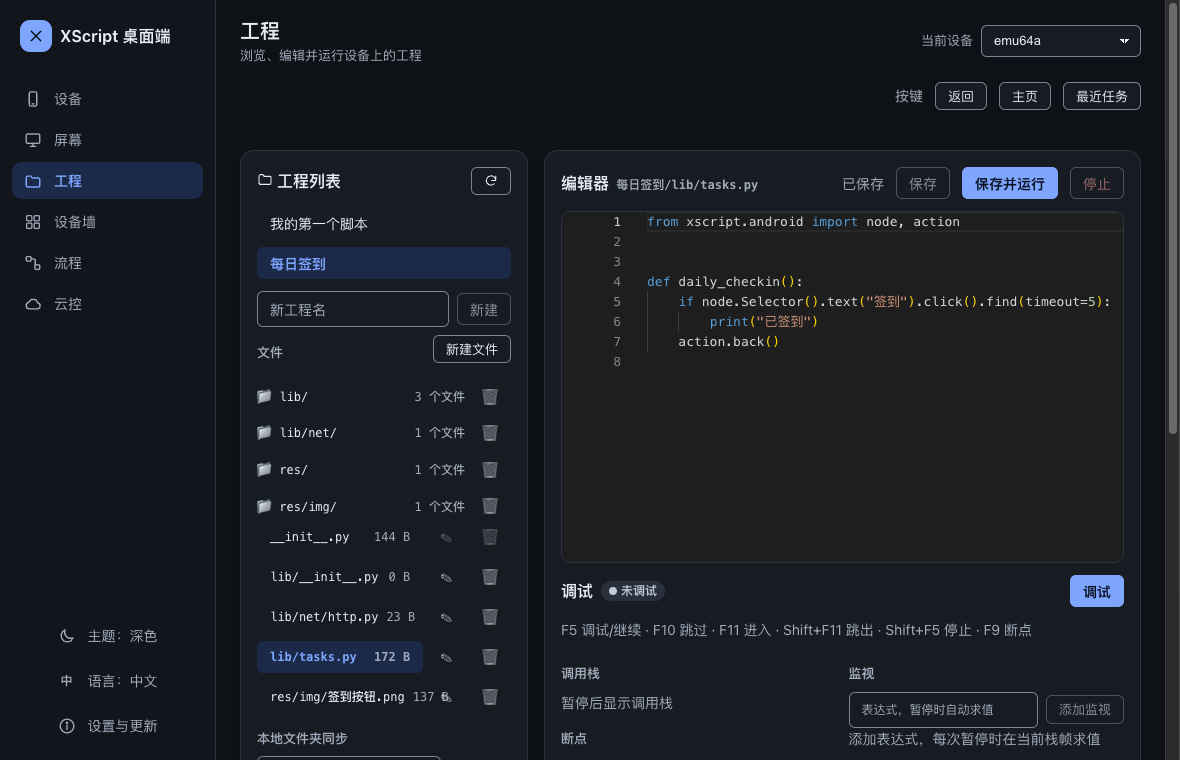
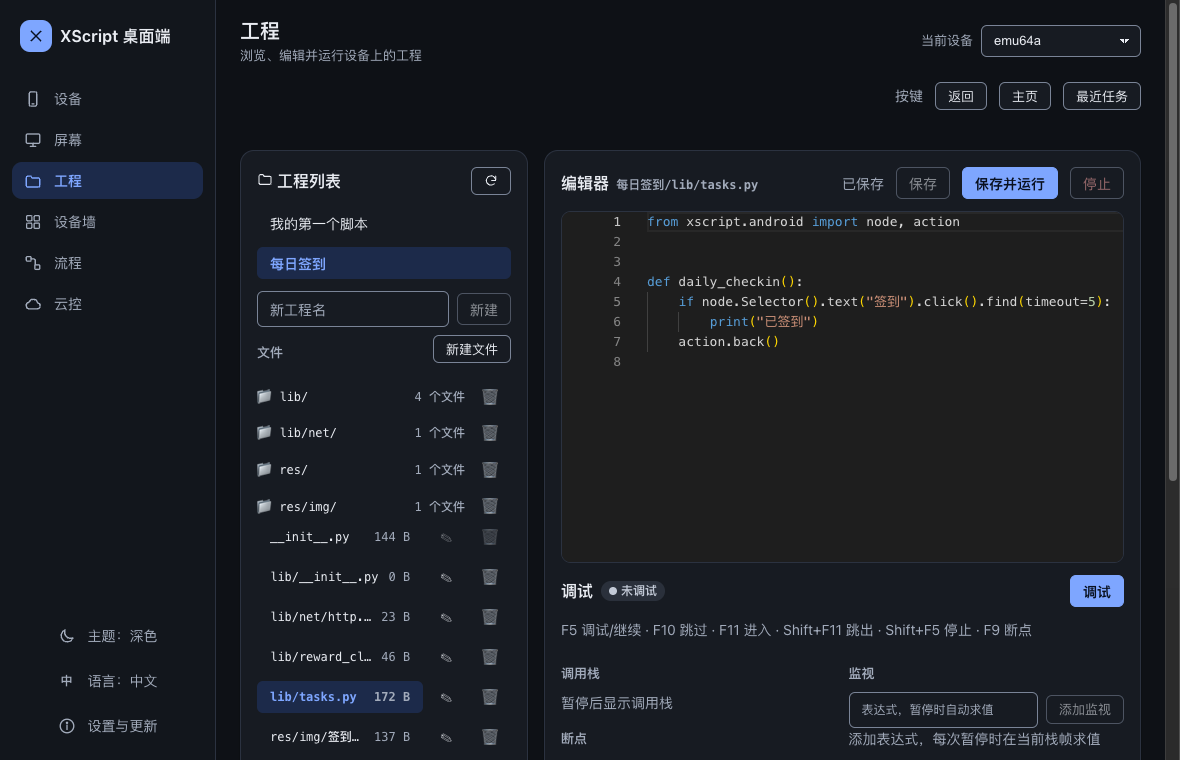
fix(desktop): ellipsize long project and file names in the Projects lists

Changed region(s): [[0.2136, 0.7868, 0.3661, 0.9987], [0.9763, 0.575, 1.0, 0.6355], [0.3966, 0.9382, 0.4271, 0.9987]]

diff --git a/desktop/frontend/src/components/ProjectsPage.tsx b/desktop/frontend/src/components/ProjectsPage.tsx
@@ -368,7 +368,7 @@ export function ProjectsPage({ pollMs = LOG_POLL_MS, onDirtyChange }: { pollMs?:
             {(projects ?? []).map((p) => (
               <li key={p.name}>
                 <Button variant="bare" className={"list-btn" + (p.name === project ? " active" : "")} aria-current={p.name === project ? "true" : undefined} onClick={() => void openProject(p.name)}>
-                  {p.name}
+                  <span className="list-name" title={p.name}>{p.name}</span>
                   {running && runningProject === p.name && <Badge tone="ok">{t.projects.running}</Badge>}
                 </Button>
               </li>
@@ -427,7 +427,7 @@ export function ProjectsPage({ pollMs = LOG_POLL_MS, onDirtyChange }: { pollMs?:
                   {folders.map(([d, n]) => (
                     <li key={d} className="file-row">
                       <span className="ui-btn list-btn mono folder-label">
-                        📁 {d}/
+                        <span className="list-name" title={`${d}/`}>📁 {d}/</span>
                         <span className="muted">{t.files.fileCount(n)}</span>
                       </span>
                       <Button variant="ghost" size="sm" className="text-danger-fg hover:bg-danger-bg"
@@ -448,7 +448,7 @@ export function ProjectsPage({ pollMs = LOG_POLL_MS, onDirtyChange }: { pollMs?:
                   return (
                     <li key={f.path} className="file-row">
                       <Button variant="bare" className={"list-btn mono" + (file?.path === f.path ? " active" : "")} onClick={() => void openFile(f.path)}>
-                        {f.path}
+                        <span className="list-name" title={f.path}>{f.path}</span>
                         <span className="muted">{f.size} B</span>
                       </Button>
                       <Button variant="ghost" size="sm"

diff --git a/desktop/frontend/src/styles/components.css b/desktop/frontend/src/styles/components.css
@@ -192,6 +192,9 @@ pre.logs .err { color: var(--danger-fg); }
 .lang-mark { display: inline-grid; place-items: center; width: 18px; font-size: var(--fs-xs); font-weight: 700; }
 /* A folder row's name: laid out like the file buttons beside it, but not clickable. */
 .list-btn.folder-label, .list-btn.folder-label:hover:not(:disabled) { cursor: default; background: transparent; }
+.list-btn { gap: var(--sp-2, 8px); min-width: 0; }
+.list-btn .list-name { flex: 1 1 auto; min-width: 0; overflow: hidden; text-overflow: ellipsis; white-space: nowrap; }
+.list-btn > :not(.list-name) { flex: 0 0 auto; }
 .file-row { display: flex; gap: var(--sp-1, 4px); align-items: center; } .file-row .list-btn { flex: 1; min-width: 0; }
 
 /* debugger: the decorations Monaco draws are styled in overrides.css (unlayered, like Monaco's own CSS) */

diff --git a/desktop/frontend/tests/projects.test.tsx b/desktop/frontend/tests/projects.test.tsx
@@ -40,6 +40,17 @@ describe("ProjectsPage", () => {
     expect((await api.readFile(id, "demo", "__init__.py")).content).toBe("print(1)\n");
   });
 
+  it("truncates long names with an ellipsis span and a full-name tooltip", async () => {
+    await setup();
+    const proj = await screen.findByRole("button", { name: /^demo/ });
+    expect(proj.querySelector(".list-name")?.getAttribute("title")).toBe("demo");
+    fireEvent.click(proj);
+    const file = await screen.findByRole("button", { name: /^__init__\.py/ });
+    const name = file.querySelector(".list-name");
+    expect(name?.getAttribute("title")).toBe("__init__.py");
+    expect(name?.nextElementSibling?.textContent).toMatch(/ B$/);
+  });
+
   it("creates a project", async () => {
     await setup();
     await screen.findByRole("button", { name: /^demo/ });

diff --git a/desktop/frontend/tests/fileops-i18n.test.tsx b/desktop/frontend/tests/fileops-i18n.test.tsx
@@ -85,8 +85,8 @@ describe("file new / rename / delete", () => {
       await screen.findByRole("button", { name: new RegExp("^" + path.replace(/[/.]/g, "\\$&")) });
     }
     const folders = screen.getByRole("list", { name: "文件夹" });
-    expect(within(folders).getByText(/pkg\/$/).textContent).toContain("2 个文件");
-    expect(within(folders).getByText(/pkg\/sub\/$/).textContent).toContain("1 个文件");
+    expect(within(folders).getByText(/pkg\/$/).parentElement!.textContent).toContain("2 个文件");
+    expect(within(folders).getByText(/pkg\/sub\/$/).parentElement!.textContent).toContain("1 个文件");
 
     fireEvent.click(screen.getByRole("button", { name: /^pkg\/sub\/b\.py/ }));
     await screen.findByText(/demo\/pkg\/sub\/b\.py/);

diff --git a/docs/使用手册.md b/docs/使用手册.md
@@ -530,7 +530,7 @@ yolo export model=runs/detect/train/weights/best.pt format=onnx imgsz=640
 
 ## 桌面端：安装、更新与诊断包
 
-桌面端 **工程** 页可以浏览、编辑、运行设备上的工程。文件列表上方列出各个文件夹和其中的文件数；点文件夹右侧的 🗑 会先列出其中的文件请你确认，然后整个文件夹一起删除（入口 `__init__.py` 不在任何文件夹里，不受影响）。
+桌面端 **工程** 页可以浏览、编辑、运行设备上的工程。文件列表上方列出各个文件夹和其中的文件数；点文件夹右侧的 🗑 会先列出其中的文件请你确认，然后整个文件夹一起删除（入口 `__init__.py` 不在任何文件夹里，不受影响）。名字太长放不下时末尾显示为「…」，鼠标悬停可以看到完整路径。
 
 ![桌面端工程页：文件夹、文件列表和编辑器](images/desktop-projects-light.png)
 
